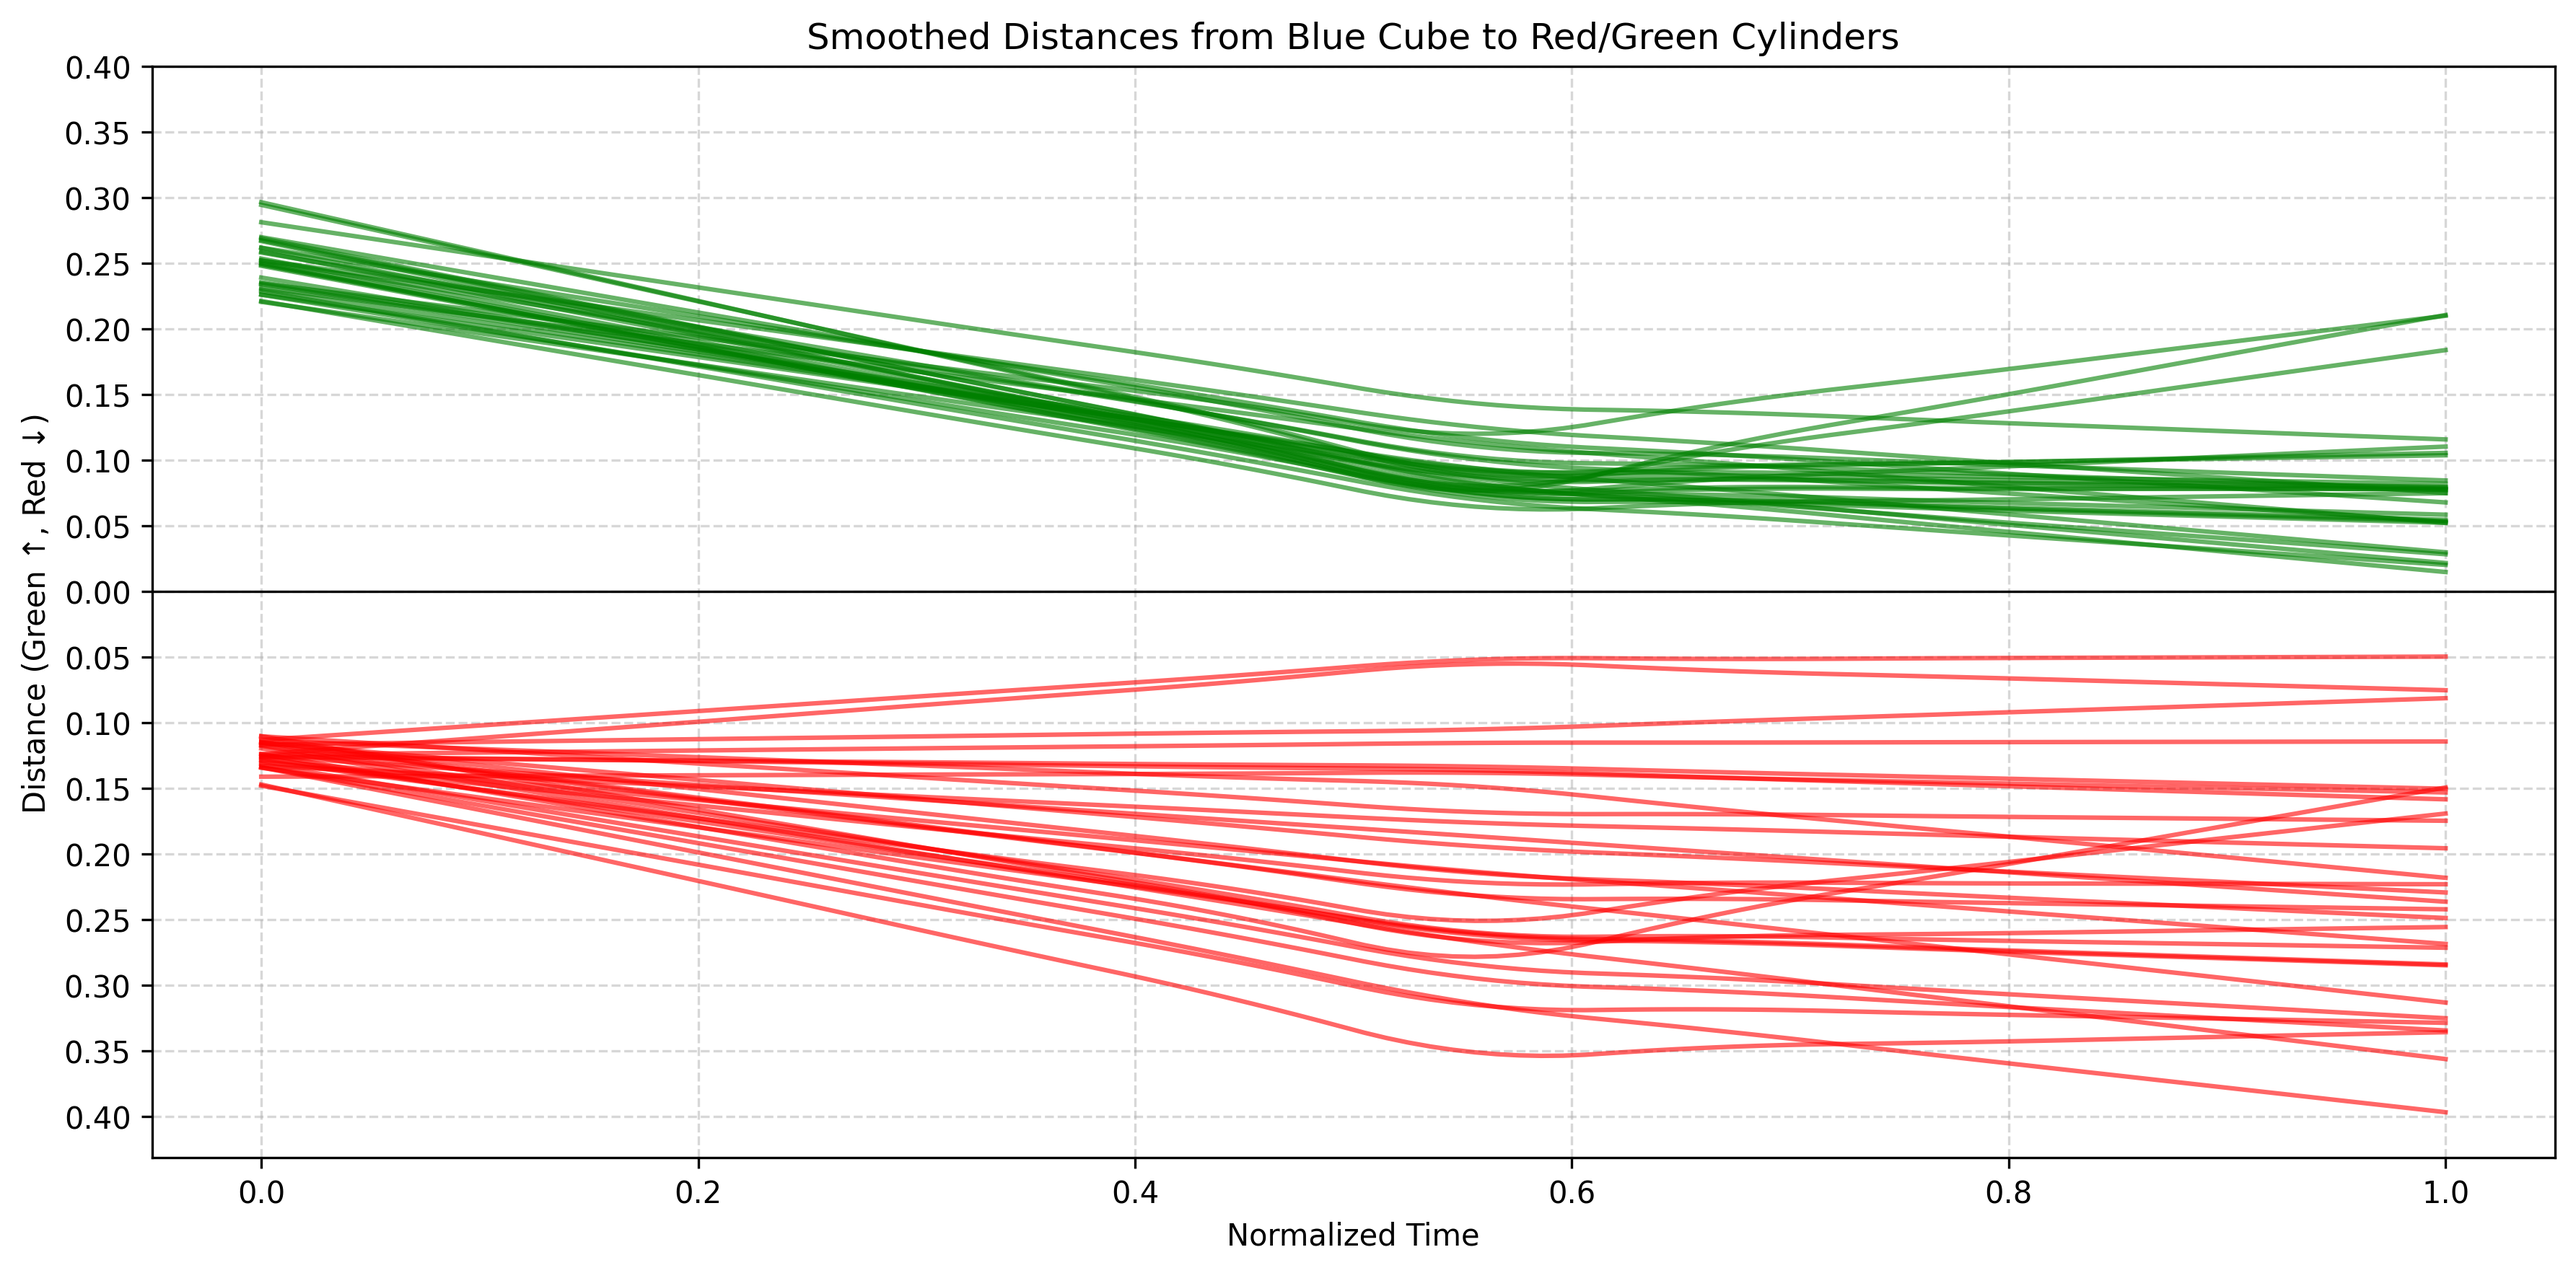
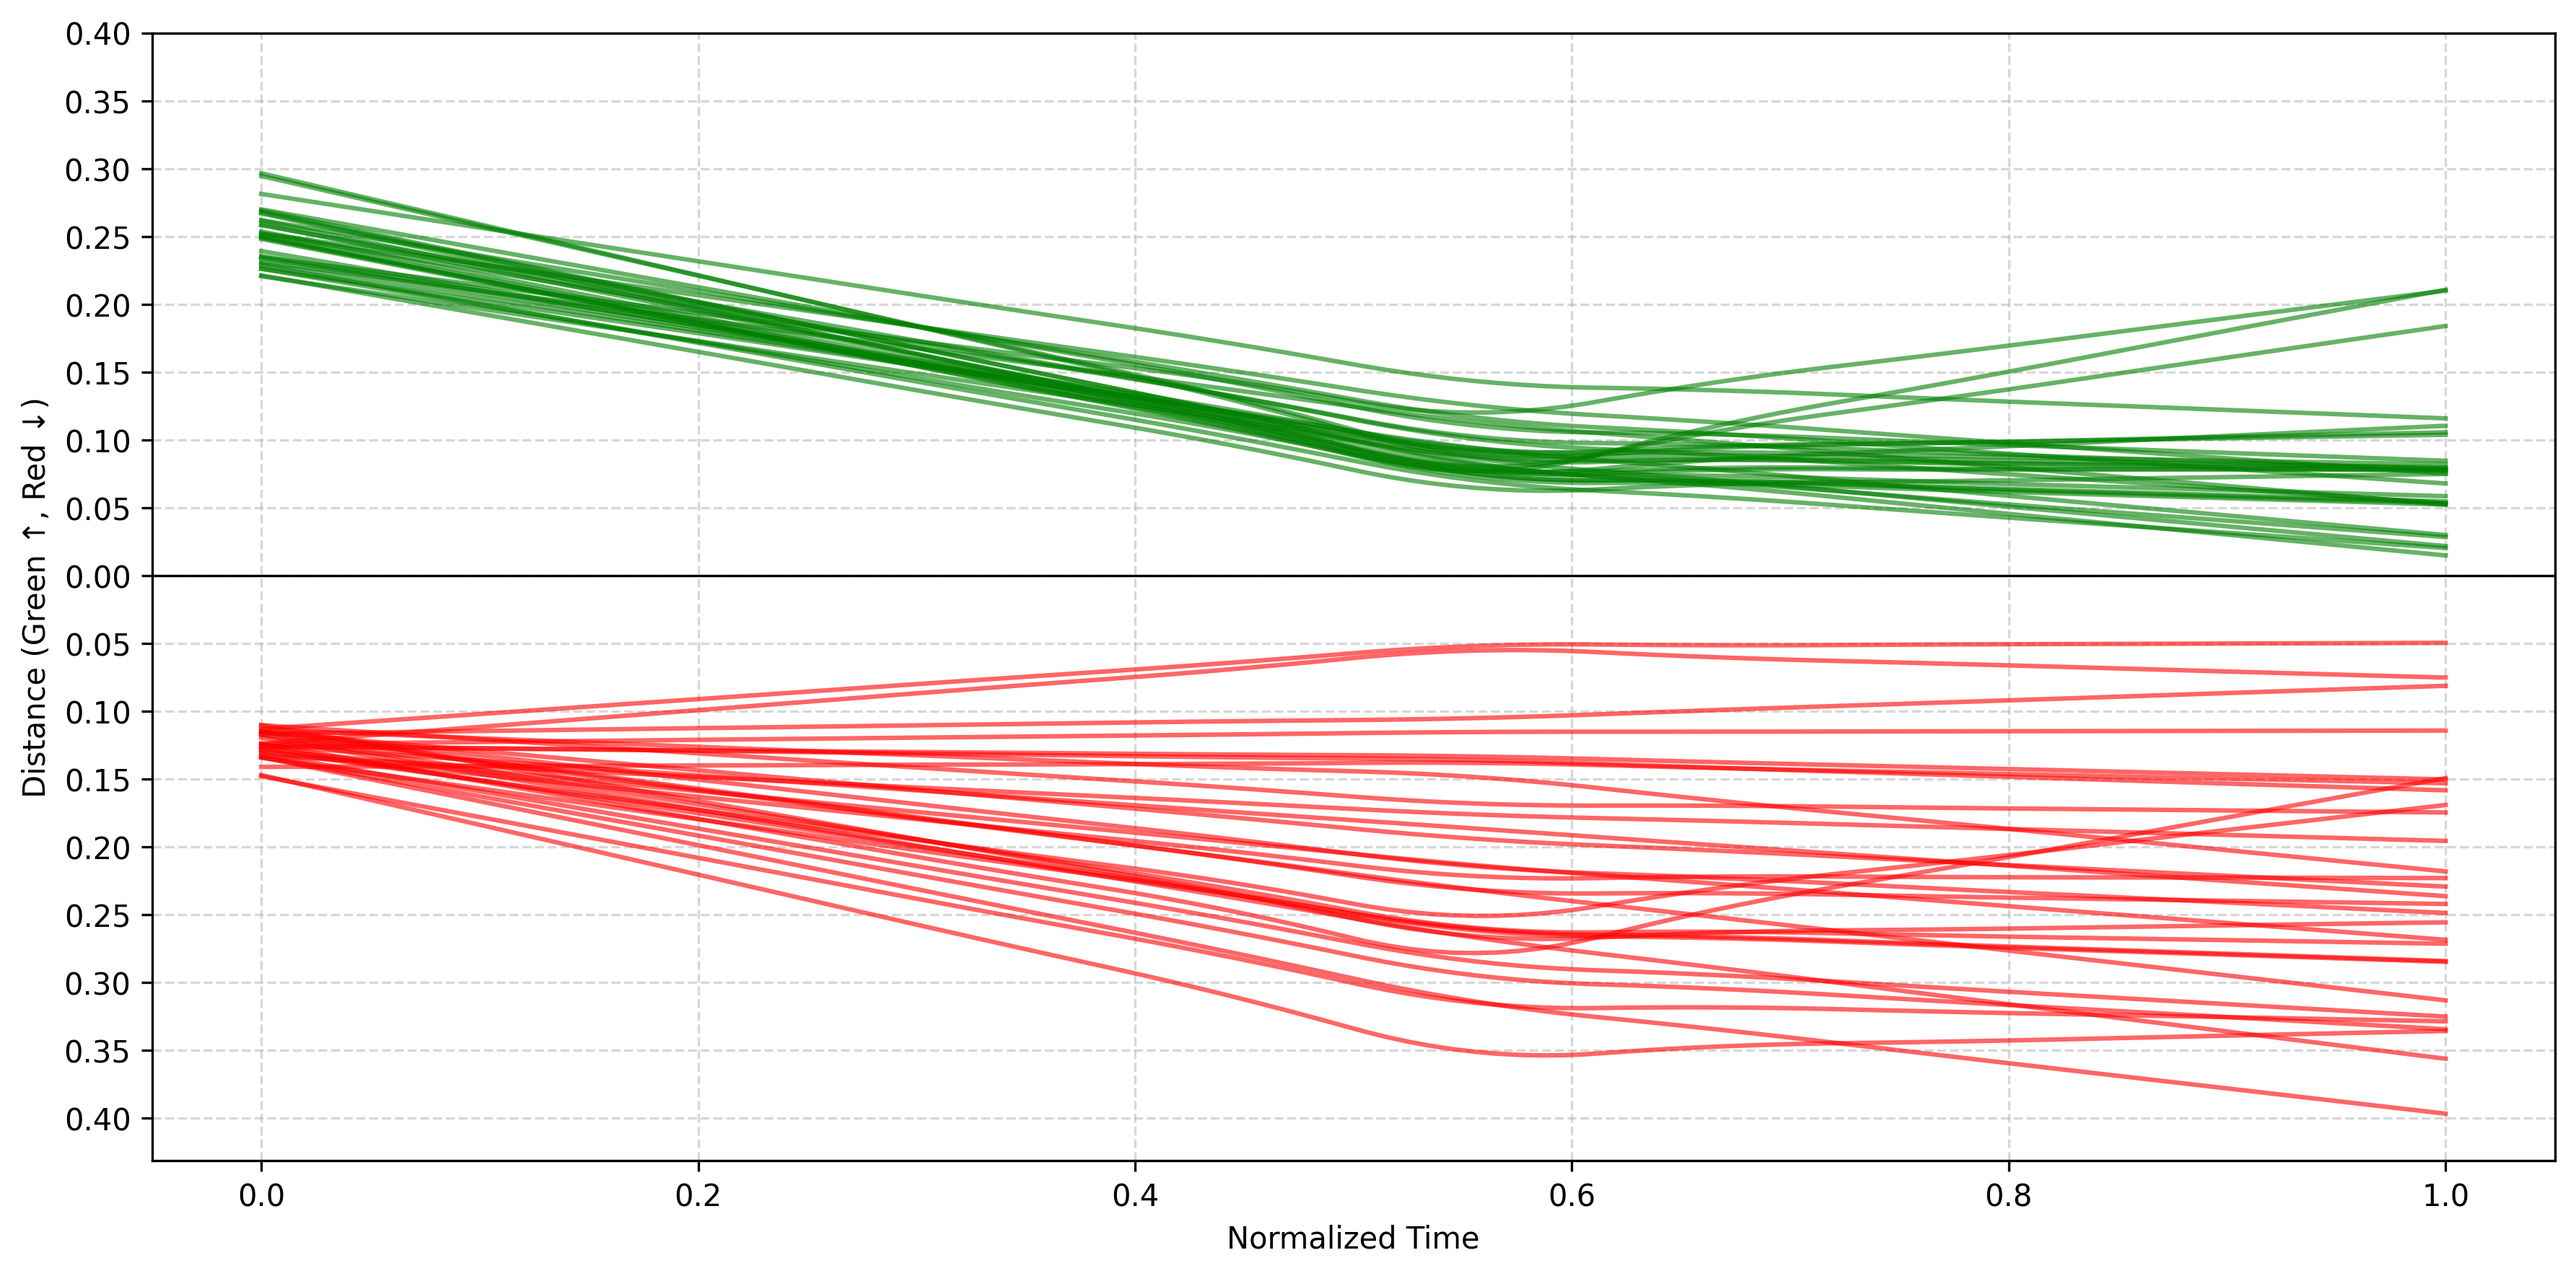
ambiguous plots titles removed

diff --git a/myCode/my_planning_app/logs/ambiguous_performance_plot_3obj_with_noise.py b/myCode/my_planning_app/logs/ambiguous_performance_plot_3obj_with_noise.py
@@ -1,0 +1,130 @@
+import json
+import math
+from pathlib import Path
+from matplotlib import pyplot as plt
+import numpy as np
+
+# Mapping for clarity (not used directly in code below)
+scene_07_mapping = {
+    "obj0": "blue cube",
+    "obj1": "red cylinder",
+    "obj2": "green cylinder"
+}
+
+def get_xy(pos3d):
+    return pos3d[0], pos3d[1]
+
+def euclidean_distance(pos_a, pos_b):
+    return math.sqrt((pos_a[0] - pos_b[0])**2 + (pos_a[1] - pos_b[1])**2)
+
+def interpolate_noisy_distances(dist_lst, steps_per_segment=5, noise_std=0.01):
+    all_sequences = []
+    for init, mid, final in dist_lst:
+        reds = np.concatenate([
+            np.linspace(init[0], mid[0], steps_per_segment, endpoint=False),
+            np.linspace(mid[0], final[0], steps_per_segment)
+        ])
+        greens = np.concatenate([
+            np.linspace(init[1], mid[1], steps_per_segment, endpoint=False),
+            np.linspace(mid[1], final[1], steps_per_segment)
+        ])
+        red_noisy = reds + np.random.normal(0, noise_std, size=reds.shape)
+        green_noisy = greens + np.random.normal(0, noise_std, size=greens.shape)
+        seq = list(zip(red_noisy, green_noisy))
+        all_sequences.append(seq)
+    return all_sequences
+
+def convert_sequence_to_ratios(dist_seq):
+    return [[g / r if r != 0 else float('inf') for r, g in seq] for seq in dist_seq]
+
+def classify_sequence_success(dist_lst):
+    success_flags = []
+    for (r0, g0), (r1, g1), (r2, g2) in dist_lst:
+        def safe_ratio(g, r): return g / r if r != 0 else float('inf')
+        r0 = safe_ratio(g0, r0)
+        r1 = safe_ratio(g1, r1)
+        r2 = safe_ratio(g2, r2)
+        success_flags.append(r0 > r1 > r2)
+    return success_flags
+
+def plot_sequence_distances(dist_seq, if_save=False):
+    plt.figure(figsize=(12, 6))
+    for i, seq in enumerate(dist_seq):
+        red_curve = np.array([-r for r, g in seq])
+        green_curve = np.array([g for r, g in seq])
+        x_vals = np.linspace(0, 1, len(seq))
+        plt.plot(x_vals, green_curve, color='green', alpha=0.6, label='Distance betwee Blue Cube and Green Cylinder' if i == 0 else "")
+        plt.plot(x_vals, red_curve, color='red', alpha=0.6, label='Distance between Blue Cube and Red Cylinder' if i == 0 else "")
+    plt.axhline(0, color='black', linewidth=0.8)
+    plt.ylabel("Distance (Green ↑, Red ↓)")
+    plt.xlabel("Normalized Time")
+    plt.title("Noisy Linear Distances from Blue Cube to Red/Green Cylinders")
+    plt.legend()
+    plt.grid(True, linestyle='--', alpha=0.5)
+    plt.tight_layout()
+    if if_save:
+        save_dir = Path("/home/jingyang/robosuite/myCode/my_planning_app/logs/plots")
+        save_path = save_dir / "smoothed_distances_plot_with_noise_interpolation.png"
+        plt.savefig(save_path, dpi=300, bbox_inches='tight')
+        print("Plot saved as 'smoothed_distances_plot_with_noise_interpolation.png'.")
+    plt.show()
+
+def plot_sequence_ratios(ratio_seq, success_flags=None, if_save=False):
+    plt.figure(figsize=(12, 6))
+    counter = 0
+    for i, seq in enumerate(ratio_seq):
+        x_vals = np.linspace(0, 1, len(seq))
+        if success_flags is None or success_flags[i]:
+            plt.plot(x_vals, seq, color='blue', alpha=0.7, label='Success Experiments' if i == 0 else "")
+        else:
+            plt.plot(x_vals, seq, color='black', linestyle='--', linewidth=1, label='Failed Experiments' if counter == 0 else "")
+            counter += 1
+    plt.axhline(1.0, linestyle='--', color='gray', linewidth=0.8)
+    plt.ylabel("Green : Red Distance Ratio")
+    plt.xlabel("Normalized Time")
+    # plt.title("Smoothed Ratio of Distances (Green / Red) with Failure Highlighting")
+    plt.grid(True, linestyle='--', alpha=0.5)
+    plt.legend()
+    plt.tight_layout()
+    if if_save:
+        plt.savefig("smoothed_ratios_with_failures_plot_with_noise_interpolation.png", dpi=300, bbox_inches='tight')
+        print("Plot saved as 'smoothed_ratios_with_failures_plot_with_noise_interpolation.png'.")
+    plt.show()
+
+if __name__ == "__main__":
+    log_dir = Path("/home/jingyang/robosuite/myCode/my_planning_app/logs/scene_07/experiments_logging/")
+    log_files = list(log_dir.glob("*.json"))
+
+    dist_lst = []
+    for log_path in log_files:
+        with open(log_path, "r") as f:
+            data = json.load(f)
+        dist_cache = []
+        for step in data["steps"]:
+            init = step["init_obj"]
+            obj_blue = get_xy(init["obj0"]["position"])
+            obj_red = get_xy(init["obj1"]["position"])
+            obj_green = get_xy(init["obj2"]["position"])
+            init_dist_red = euclidean_distance(obj_blue, obj_red)
+            init_dist_green = euclidean_distance(obj_blue, obj_green)
+            dist_cache.append((init_dist_red, init_dist_green))
+            last = step["obj_pos_history"][-1]
+            obj_blue_f = get_xy(last["obj0"]["position"])
+            obj_red_f = get_xy(last["obj1"]["position"])
+            obj_green_f = get_xy(last["obj2"]["position"])
+            final_dist_red = euclidean_distance(obj_blue_f, obj_red_f)
+            final_dist_green = euclidean_distance(obj_blue_f, obj_green_f)
+            dist_cache.append((final_dist_red, final_dist_green))
+            if len(dist_cache) == 4:
+                dist_lst.append((dist_cache[0], dist_cache[1], dist_cache[3]))
+
+    success_flags = classify_sequence_success(dist_lst)
+    dist_seq = interpolate_noisy_distances(dist_lst,steps_per_segment=10, noise_std=0.001)
+    ratio_seq = convert_sequence_to_ratios(dist_seq)
+
+    print(f"Success rate: {sum(success_flags) / len(success_flags):.2%}")
+    print(f"Number of successful experiments: {sum(success_flags)} out of {len(success_flags)}")
+    print(f"Success flags: {success_flags}")
+
+    plot_sequence_distances(dist_seq)
+    plot_sequence_ratios(ratio_seq, success_flags, if_save=True)

diff --git a/myCode/my_planning_app/logs/ambiguous_performance_plot_3obj.py b/myCode/my_planning_app/logs/ambiguous_performance_plot_3obj.py
@@ -52,7 +52,7 @@ def plot_smoothed_distances_aligned(dist_lst, steps_per_segment=5, noise_std = 0
     plt.axhline(0, color='black', linewidth=0.8)
     plt.ylabel("Distance (Green ↑, Red ↓)")
     plt.xlabel("Normalized Time")
-    plt.title("Smoothed Distances from Blue Cube to Red/Green Cylinders")
+    # plt.title("Smoothed Distances from Blue Cube to Red/Green Cylinders")
     plt.grid(True, linestyle='--', alpha=0.5)
 
     yticks = np.arange(-0.4, 0.45, 0.05)
@@ -92,7 +92,7 @@ def plot_smoothed_ratios_aligned(ratio_lst, steps_per_segment=5, if_save=False):
 
     plt.ylabel("Green : Red Distance Ratio")
     plt.xlabel("Normalized Time")
-    plt.title("Smoothed Ratio of Distances (Green / Red)")
+    # plt.title("Smoothed Ratio of Distances (Green / Red)")
     plt.grid(True, linestyle='--', alpha=0.5)
     plt.axhline(1.0, linestyle='--', color='black', linewidth=0.8)  # Reference line: equal distance
     plt.tight_layout()
@@ -129,7 +129,7 @@ def plot_smoothed_ratios_aligned_with_failures(ratio_lst, success_flags, steps_p
     plt.axhline(1.0, linestyle='--', color='gray', linewidth=0.8)
     plt.ylabel("Green : Red Distance Ratio")
     plt.xlabel("Normalized Time")
-    plt.title("Smoothed Ratio of Distances (Green / Red) with Failure Highlighting")
+    # plt.title("Smoothed Ratio of Distances (Green / Red) with Failure Highlighting")
     plt.grid(True, linestyle='--', alpha=0.5)
     plt.tight_layout()
     if if_save:
